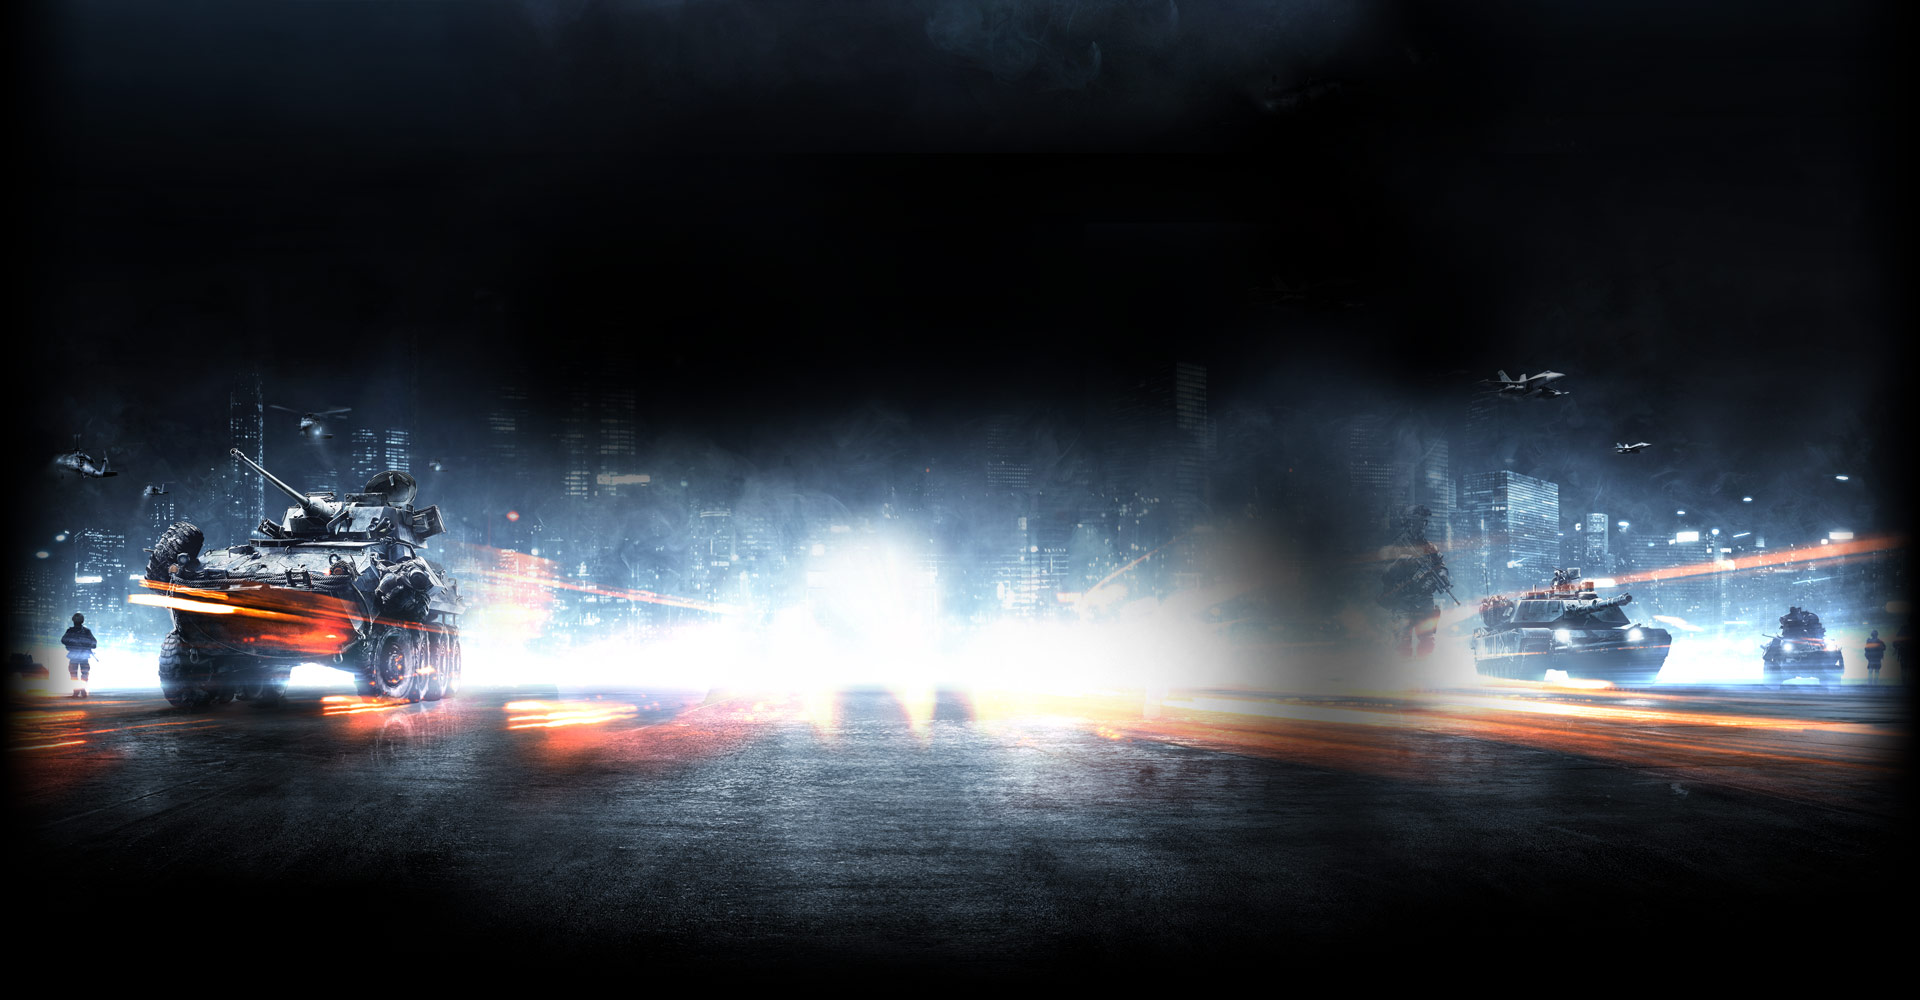
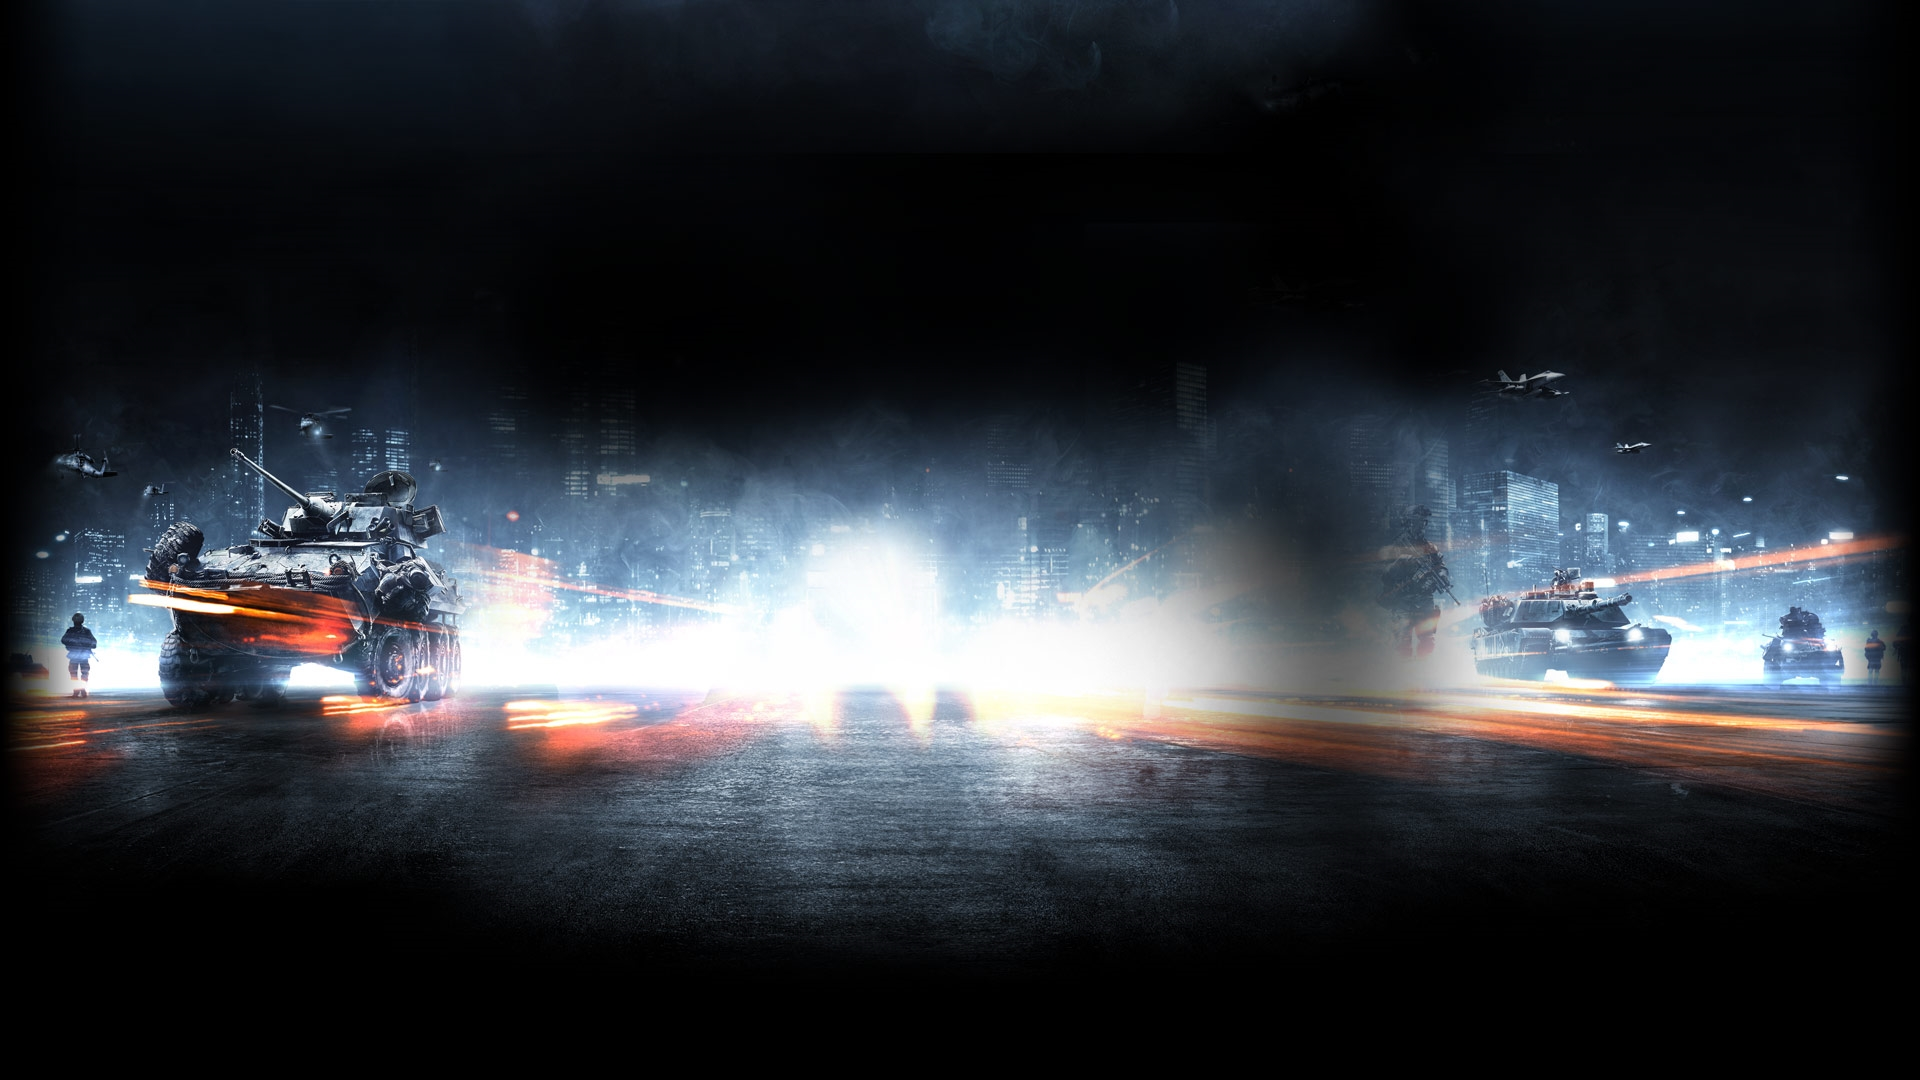
Origin closes properly, image is 1080p
Origin didn't respond to CloseMainWindow calls, so we kill it.

loading.jpg is now 1080p so it displays properly again.

diff --git a/BF3WrapperWPF/ManagedOrigin.cs b/BF3WrapperWPF/ManagedOrigin.cs
@@ -42,7 +42,7 @@ namespace Battlelogium
             string originPath = GetOriginPath();
             var originProcessInfo = new ProcessStartInfo(this.originPath, this.commandLineOptions);
             Utilities.Log("KillProcess(Origin)");
-            Utilities.KillProcess("Origin", true, true);
+            Utilities.KillProcess("Origin", true, false);
             //We must relaunch Origin as a child process for Steam to properly apply the overlay hook.
             Utilities.Log("Process.Start(originProcessInfo)");
             this.originProcess = Process.Start(originProcessInfo);
@@ -112,7 +112,7 @@ namespace Battlelogium
 
         public void KillOriginProcess()
         {
-            Utilities.KillProcess(this.originProcess, true, true);
+            Utilities.KillProcess(this.originProcess, true, false);
         }
 
         public static void CreateUnmanagedInstance()
